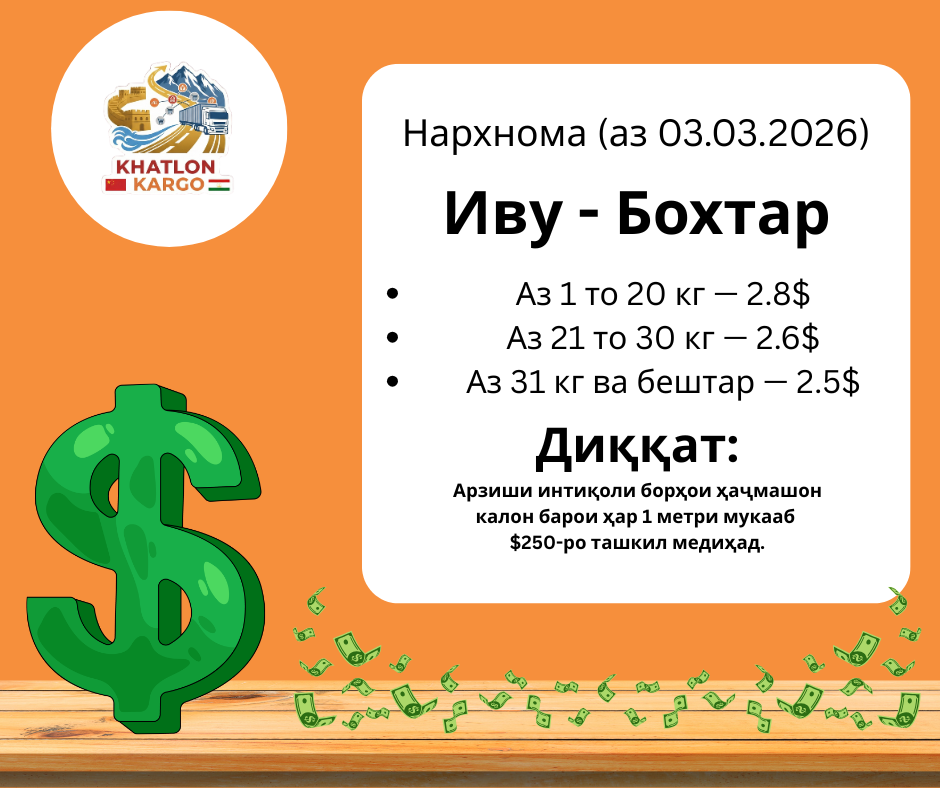
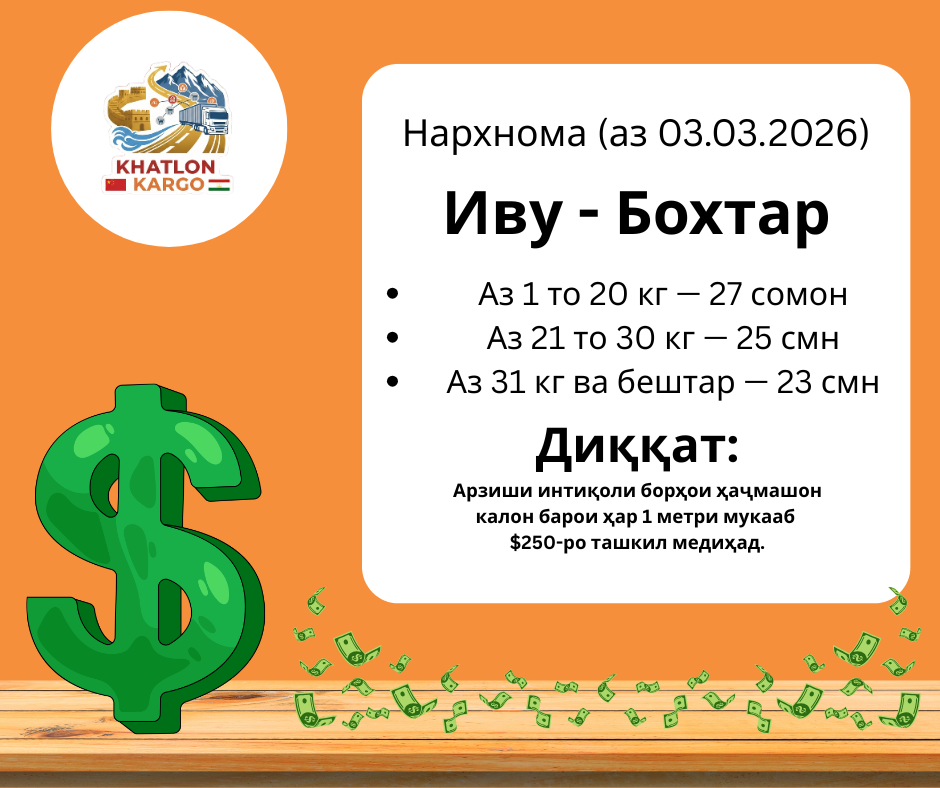
Updating address

Changed region(s): [[0.4628, 0.335, 0.9255, 0.5178]]

diff --git a/texts.py b/texts.py
@@ -61,10 +61,10 @@ TEXTS = {
             "Телеграм: https://t.me/khatlon_cargo"
         ),
         "prices_text": (
-            "Наш тариф:\n\n"
-            "Доставка\n"
-            "🚚 от кг - 2.5$\n"
-            "📦 от куб - 250$\n\n"
+            "Тарифи мо аз Хитой:\n\n"
+            "🚚 Аз 1 то 20 кг — 27 сомон/кг\n"
+            "🚚 Аз 21 то 30 кг — 25 сомон/кг\n"
+            "🚚 Аз 31 кг ва бештар — 23 сомон/кг\n\n"
             "Срок доставки 15-25 дней\n\n"
             "Крупногабаритные грузы рассчитываются как куб!!!"
         ),
@@ -83,6 +83,29 @@ TEXTS = {
             "收货人: Khatlon\n"
             "手机号: 15158966710\n"
             "浙江省义乌市后宅街道柳青路1577号里面C区1楼 2号杜尚别仓库2号门 ФИО и номер телефона"
+        ),
+        "address_caption_china_bokhtar": (
+            "Адреси Бохтар👇🏻\n"
+            "收货人：\n"
+            "手机号：15068066887\n"
+            "浙江省金华市义乌市 后宅街道柳青路1577号里面C区1楼 2号 XAT-1"
+        ),
+        "address_caption_china_qubodiyon": (
+            "Аддреси Қубодиён👇🏻\n"
+            "收货人：\n"
+            "手机号：15068066887\n"
+            "浙江省金华市义乌市 后宅街道柳青路1577号里面C区1楼 2号 XAT-2"
+        ),
+        "address_caption_tajikistan_bokhtar": (
+            "📍 <b>Адрес для Бохтара:</b>\n"
+            "кучаи С.Айни 67\n"
+            "(Назди Кругавои ш.Бохтар, назди Маркази омузишии 'Зам-зам')\n\n"
+            "📞 Телефон: +992 93 600 53 03"
+        ),
+        "address_caption_tajikistan_qubodiyon": (
+            "📍 <b>Адрес для Кабодиёна:</b>\n"
+            "Кучаи М.Турсунзода хонаи 45\n\n"
+            "📞 Телефон: +992 93 539 84 48"
         ),
         "address_caption_tajikistan": (
             "📍 <b>Наш адрес в Душанбе:</b>\n"
@@ -310,10 +333,10 @@ TEXTS = {
             "Telegram: https://t.me/khatlon_cargo"
         ),
         "prices_text": (
-            "Our Tariff:\n\n"
-            "Delivery\n"
-            "🚚 per kg - 2.5$\n"
-            "📦 per cube - 250$\n\n"
+            "Our tariff from China:\n\n"
+            "🚚 From 1 to 20 kg — 27 somoni/kg\n"
+            "🚚 From 21 to 30 kg — 25 somoni/kg\n"
+            "🚚 From 31 kg and above — 23 somoni/kg\n\n"
             "Delivery time 15-25 days\n\n"
             "Oversized cargo is calculated as cube!!!"
         ),
@@ -332,6 +355,29 @@ TEXTS = {
             "收货人: Khatlon\n"
             "手机号: 15158966710\n"
             "浙江省义乌市后宅街道柳青路1577号里面C区1楼 2号杜尚别仓库2号门 Name and phone number"
+        ),
+        "address_caption_china_bokhtar": (
+            "Адреси Бохтар👇🏻\n"
+            "收货人：\n"
+            "手机号：15068066887\n"
+            "浙江省金华市义乌市 后宅街道柳青路1577号里面C区1楼 2号 XAT-1"
+        ),
+        "address_caption_china_qubodiyon": (
+            "Аддреси Қубодиён👇🏻\n"
+            "收货人：\n"
+            "手机号：15068066887\n"
+            "浙江省金华市义乌市 后宅街道柳青路1577号里面C区1楼 2号 XAT-2"
+        ),
+        "address_caption_tajikistan_bokhtar": (
+            "📍 <b>Address for Bokhtar:</b>\n"
+            "S.Ayni Street 67\n"
+            "(Near Khargovar Bokhtar, near Zam-zam educational center)\n\n"
+            "📞 Phone: +992 93 600 53 03"
+        ),
+        "address_caption_tajikistan_qubodiyon": (
+            "📍 <b>Address for Qubodiyon:</b>\n"
+            "M.Tursunzoda Street, House 45\n\n"
+            "📞 Phone: +992 93 539 84 48"
         ),
         "address_caption_tajikistan": (
             "📍 <b>Our address in Dushanbe:</b>\n"
@@ -551,10 +597,10 @@ TEXTS = {
             "Телеграм: https://t.me/khatlon_cargo"
         ),
         "prices_text": (
-            "Тарифи мо:\n\n"
-            "Расонидан\n"
-            "🚚 аз кг - 2.5$\n"
-            "📦 аз куб - 250$\n\n"
+            "Тарифи мо аз Хитой:\n\n"
+            "🚚 Аз 1 то 20 кг — 27 сомонӣ/кг\n"
+            "🚚 Аз 21 то 30 кг — 25 сомонӣ/кг\n"
+            "🚚 Аз 31 кг ва бештар — 23 сомонӣ/кг\n\n"
             "Мӯҳлати расонидан 15-25 рӯз\n\n"
             "Борҳои калонҳаҷм чун куб ҳисоб карда мешаванд!!!"
         ),
@@ -573,6 +619,29 @@ TEXTS = {
             "收货人: Khatlon\n"
             "手机号: 15158966710\n"
             "浙江省义乌市后宅街道柳青路1577号里面C区1楼 2号杜尚别仓库2号门 Ном ва рақами телефон"
+        ),
+        "address_caption_china_bokhtar": (
+            "Адреси Бохтар👇🏻\n"
+            "收货人：\n"
+            "手机号：15068066887\n"
+            "浙江省金华市义乌市 后宅街道柳青路1577号里面C区1楼 2号 XAT-1"
+        ),
+        "address_caption_china_qubodiyon": (
+            "Аддреси Қубодиён👇🏻\n"
+            "收货人：\n"
+            "手机号：15068066887\n"
+            "浙江省金华市义乌市 后宅街道柳青路1577号里面C区1楼 2号 XAT-2"
+        ),
+        "address_caption_tajikistan_bokhtar": (
+            "📍 <b>Суроғаи Бохтар:</b>\n"
+            "Кӯчаи С.Айни 67\n"
+            "(Назди Қурғонои Бохтар, назди Маркази омузишии 'Зам-зам')\n\n"
+            "📞 Телефон: +992 93 600 53 03"
+        ),
+        "address_caption_tajikistan_qubodiyon": (
+            "📍 <b>Суроғаи Қубодиён:</b>\n"
+            "Кӯчаи М.Тӯрсунзода хонаи 45\n\n"
+            "📞 Телефон: +992 93 539 84 48"
         ),
         "address_caption_tajikistan": (
             "📍 <b>Суроғаи мо дар Душанбе:</b>\n"

diff --git a/handlers.py b/handlers.py
@@ -724,9 +724,19 @@ async def show_address_callback(update: Update, context: ContextTypes.DEFAULT_TY
     address_type = query.data.split('_')[1]
     
     if address_type == "china":
-        # Китай
+        # Китай — показываем адрес в зависимости от региона
+        user_id = update.effective_user.id
+        from db_utils import get_user
+        user_record = await get_user(user_id)
+        raw_region = user_record.get('region', 'Бохтар') if user_record else 'Бохтар'
+        region = normalize_region(raw_region)
+        
+        if region == 'Кабодиён':
+            caption = get_text('address_caption_china_qubodiyon', lang)
+        else:
+            caption = get_text('address_caption_china_bokhtar', lang)
+        
         photo_path = PHOTO_ADDRESS_CHINA_PATH
-        caption = get_text('address_caption_china', lang)
         await send_photo_safe(
             context, query.message.chat_id, photo_path, caption,
             text_fallback=get_text('photo_address_error', lang).format(address=caption)
@@ -747,8 +757,11 @@ async def show_address_callback(update: Update, context: ContextTypes.DEFAULT_TY
         LONGITUDE = 68.754744
         await query.message.reply_location(latitude=LATITUDE, longitude=LONGITUDE)
 
-        # 2. Текст + Кнопка видео
-        caption = get_text('address_caption_tajikistan', lang)
+        # 2. Текст + Кнопка видео (выбираем адрес по регионам)
+        if region == 'Кабодиён':
+            caption = get_text('address_caption_tajikistan_qubodiyon', lang)
+        else:
+            caption = get_text('address_caption_tajikistan_bokhtar', lang)
         
         # Текст кнопки на языках
         btn_text = "🎬 Video Guide"
@@ -785,17 +798,37 @@ async def show_video_tajik_callback(update: Update, context: ContextTypes.DEFAUL
         return MAIN_MENU
 
     try:
+        # Получаем регион пользователя
+        user_id = update.effective_user.id
+        from db_utils import get_user
+        user_record = await get_user(user_id)
+        raw_region = user_record.get('region', 'Бохтар') if user_record else 'Бохтар'
+        region = normalize_region(raw_region)
+        
         # 2. Пишем сообщение "Подождите", чтобы клиент не паниковал
         status_msg = await query.message.reply_text(f"{wait_text} 0%")
+        
+        # Выбираем адрес в зависимости от региона
+        if region == 'Кабодиён':
+            if lang == 'ru':
+                video_caption = "📍 Кучаи М.Турсунзода хонаи 45"
+            elif lang == 'tg':
+                video_caption = "📍 Кӯчаи М.Турсунзода хонаи 45"
+            else:
+                video_caption = "📍 M.Tursunzoda Street, House 45"
+        else:  # Бохтар
+            if lang == 'ru':
+                video_caption = "📍 кучаи С.Айни 67\n(Назди Кругавои ш.Бохтар, назди Маркази омузишии 'Зам-зам')"
+            elif lang == 'tg':
+                video_caption = "📍 Кӯчаи С.Айнӣ 67\n(Назди Қарғави ш.Бохтар, назди Маркази омузишии 'Зам-зам')"
+            else:
+                video_caption = "📍 S.Ayni Street 67\n(Near Khargovar Bokhtar, near Zam-zam educational center)"
         
         # 3. Отправляем видео
         with open(VIDEO_ADDRESS_TAJIK_PATH, 'rb') as video_file:
             await query.message.reply_video(
                 video=video_file,
-                caption=(
-                    "📍 Улица Дилкушо, 26/1\n"
-                    "Сино район, Душанбе (Ориентир: бозорчаи Ҷал-Ҷам)"
-                ),
+                caption=video_caption,
                 supports_streaming=True, # Позволяет смотреть сразу, не скачивая полностью
                 read_timeout=60,
                 write_timeout=60
